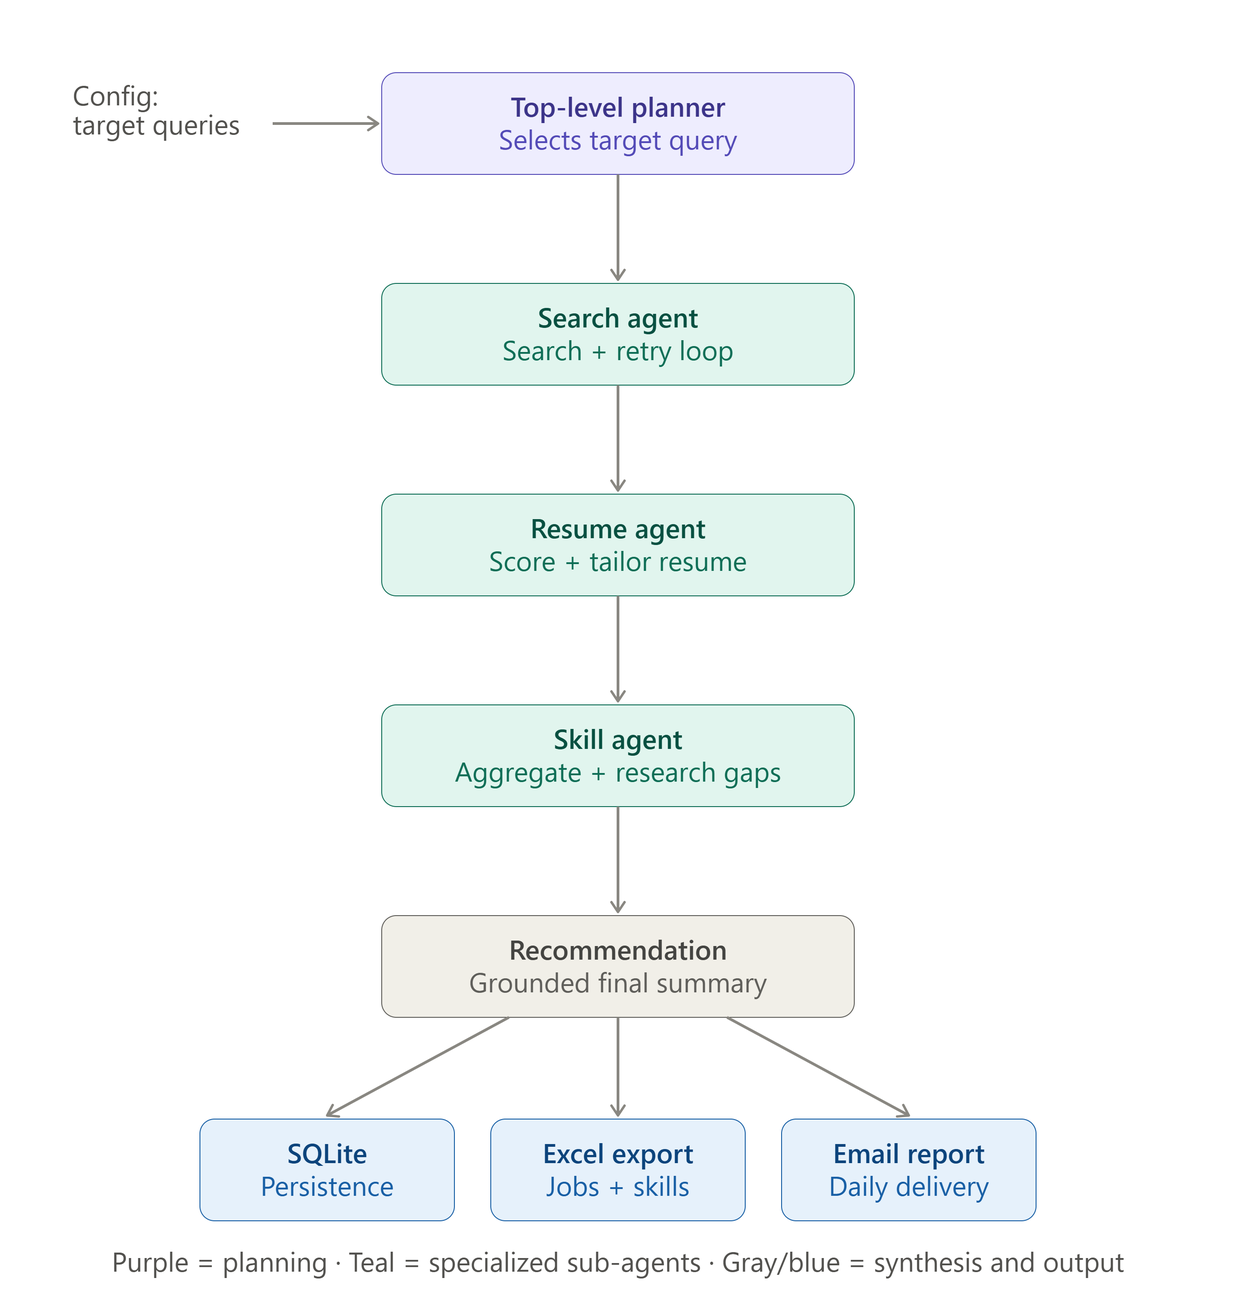
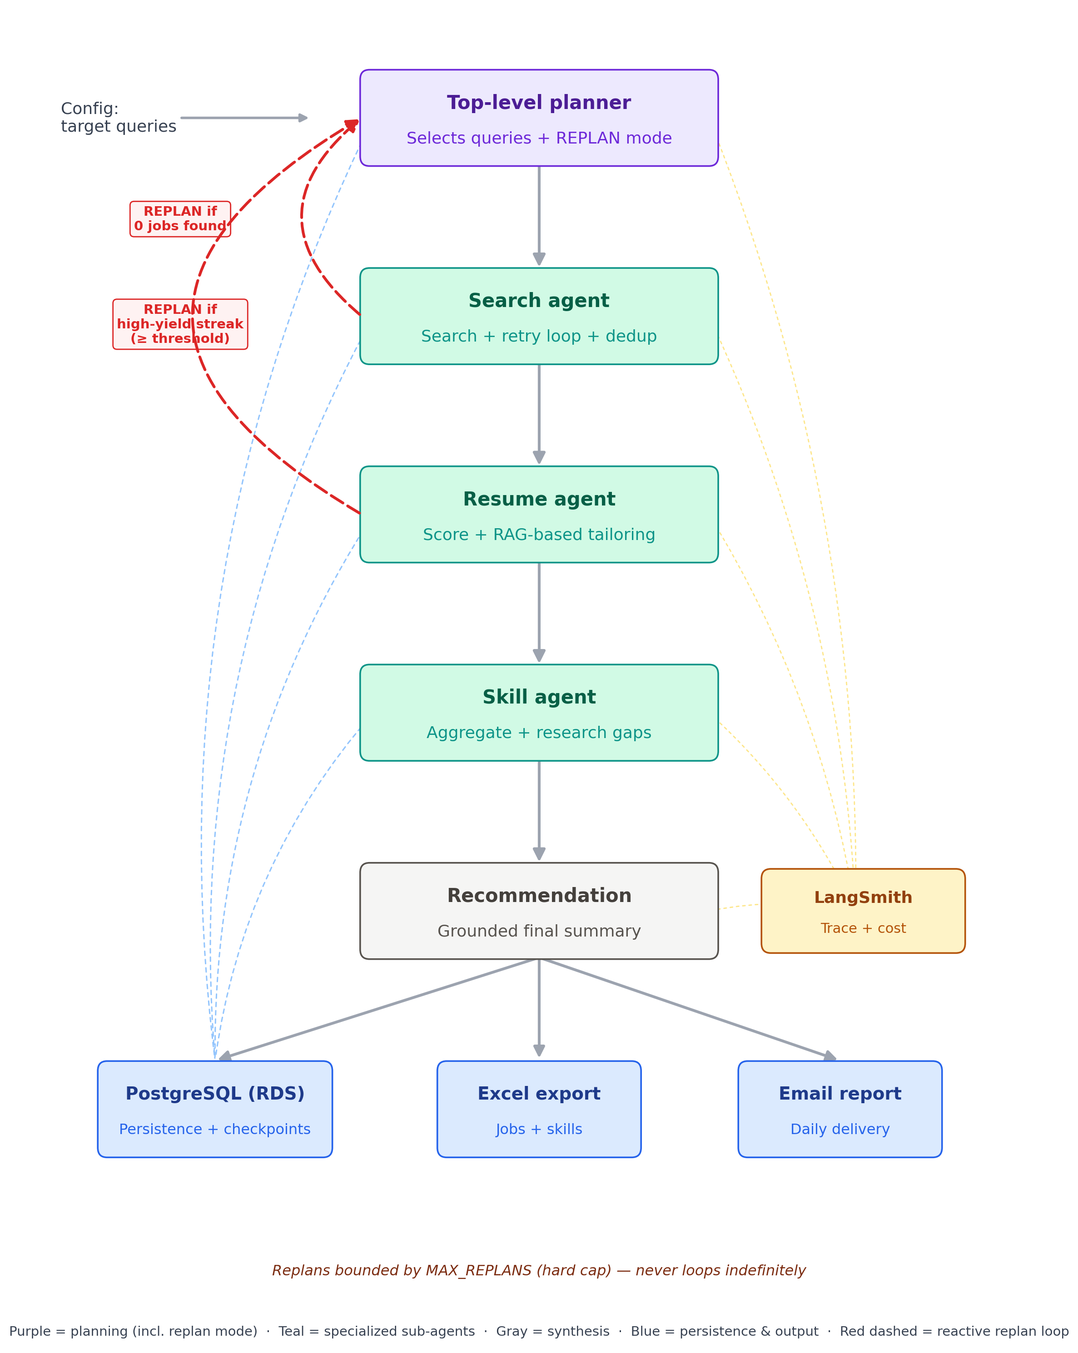
commit

diff --git a/graph/phase3/build.py b/graph/phase3/build.py
@@ -61,10 +61,9 @@ def search_node(state: TopLevelState) -> dict:
             time.sleep(INTER_QUERY_DELAY_SECONDS)
 
     log.info(f"Top-level: Search Agent total across {len(state['queries'])} quer{'y' if len(state['queries'])==1 else 'ies'}: {len(all_raw_jobs)} jobs")
-    delta = {
-        "found_jobs": all_raw_jobs,
-        "searched_queries": list(already_searched) + new_queries,
-    }
+
+    delta = {"found_jobs": all_raw_jobs, "searched_queries": list(already_searched.union(new_queries))}
+
     _checkpoint(state, "search", delta)
     return delta
 

diff --git a/README.md b/README.md
@@ -18,45 +18,71 @@ This project addresses all three with one system: it searches, it judges fit aga
 |---|---|
 | Manually search 5-7 job boards/queries daily | One scheduled run covers multiple sources and target roles |
 | Read full job descriptions to judge fit | LLM-scored match level, matched/missing skills, per job |
-| No memory of what's already been seen or applied to | Persistent, deduplicated history across every run |
+| No memory of what's already been seen or applied to | Persistent, deduplicated history across every run — exact-match AND semantic (embedding-based) |
 | Generic "learn Python" type advice | Skill gaps derived from real, current job postings, with concrete first steps |
 | No visibility into application status | A single tracked, exportable, always-current pipeline |
+| A crash mid-run means starting over from scratch | Checkpointed — resumes from the last completed stage, no wasted API calls |
+| Same query re-run blindly, whether or not it ever worked | Query selection is weighted toward queries with a proven track record of High matches |
+| One plan, run blind to what happens mid-run | Planner re-consults mid-run if a query dead-ends or over-performs, within a bounded cap |
+| Resume matching is a fixed, truncated blob for every job | Retrieval-augmented: only the resume sections relevant to this job are used per prompt |
 
-The system is designed to be genuinely used daily, not a demo — every design decision (persistence, deduplication, crash isolation, cost control) reflects that.
+The system is designed to be genuinely used daily, not a demo — every design decision (persistence, deduplication, crash isolation, cost control, observability, adaptivity) reflects that.
 
 ## 3. Architecture
 
-A top-level planner coordinates three independent, specialized sub-agents. Each sub-agent is a fully self-contained LangGraph graph with its own internal state and reasoning, built and verified in isolation before being wired together.
-
 ![Architecture Diagram](./docs/job_agent_architecture.png)
 
+A top-level planner coordinates three independent, specialized sub-agents. Each sub-agent is a fully self-contained LangGraph graph with its own internal state and reasoning, built and verified in isolation before being wired together.
+
 Design principle throughout: state is explicitly translated at each agent boundary, not shared as one global object. Each agent receives only what it needs and returns only its result — the outer graph has no visibility into how, for example, Search Agent internally decided it had "enough" results.
+
+The top-level graph itself is resumable: after every stage (planner → search → resume → skill → recommend), progress is checkpointed to Postgres. If the process crashes or is killed mid-run, the next invocation picks up at the next incomplete stage instead of re-running everything — including re-spending search API calls and LLM tokens that already succeeded.
+
+**Reactive replanning.** The graph is not a strict straight line — it includes two conditional loop-backs to the planner, bounded by a hard cap (`MAX_REPLANS`, currently 2 total across both triggers) so it can never loop indefinitely:
+
+- **After Search:** if a query returns zero new jobs, the planner is re-invoked to pick one different, untried query from the pool rather than letting the rest of the pipeline run on nothing.
+- **After Resume:** if an unusually high proportion of scored jobs come back as High matches (≥ configurable threshold), the planner is re-invoked to search further in that direction, since the current queries appear to be hitting a strong seam.
+
+Each replan pass adds exactly one new query, excludes anything already tried this run, and accumulates results (jobs, scored jobs) rather than overwriting them — verified via forced-trigger testing to confirm both loop-backs route correctly, respect the replan cap, and never re-select an already-searched query.
 
 ## 4. Tech Stack
 
 | Layer | Technology | Purpose |
 |---|---|---|
-| Orchestration | LangGraph | Multi-agent graph definition, state management, conditional routing |
+| Orchestration | LangGraph | Multi-agent graph definition, state management, conditional routing (including reactive replan loops), checkpointed resumability |
 | LLM tooling | LangChain, langchain-groq | Tool-calling, prompt templating, LLM client abstraction |
 | LLM inference | Groq (Llama 3.3 70B) | Resume-job matching, resume tailoring, skill research, query planning |
-| Job data | JSearch API (RapidAPI), Adzuna API | Two independent job search sources |
-| Persistence | SQLite | Scored jobs, application tracking, API usage history |
+| Embeddings | Gemini Developer API (gemini-embedding-001) | Semantic dedup and resume-chunk retrieval |
+| Job data | JSearch API (RapidAPI), Adzuna API | Two independent job search sources, with monthly-quota tracking against each |
+| Persistence | PostgreSQL (AWS RDS) | Scored jobs, application tracking, API usage history, checkpoints, embeddings, query performance |
+| Observability | LangSmith | Full trace of every graph run — per-node timing, token usage, and cost |
 | Data export | pandas, openpyxl | Excel report generation |
 | Notification | Gmail SMTP | Daily automated report delivery |
 | Language | Python 3.11+ | — |
 
 ## 5. AI Engineering Concepts Applied
 
-- **Multi-agent orchestration** — independent sub-agents with their own state, composed via a top-level graph, not a single monolithic agent
-- **Tool calling / function calling** — `@tool`-decorated functions (`search_jobs`, `search_jobs_adzuna`, `score_job`) invoked by the LLM with self-generated arguments
-- **Agentic loops with guardrails** — Search Agent's internal retry loop is bounded by a hard attempt cap, preventing runaway API usage regardless of LLM judgment
-- **Grounded generation** — the Recommendation step is given real scored data directly in its prompt, structurally preventing hallucination rather than merely instructing the model not to hallucinate
-- **Fabrication guard (LLM output verification)** — every job the LLM attempts to score is checked against a registry of jobs a real search call actually returned; anything else is rejected and logged, never persisted
-- **Prompt engineering** — structured, constrained prompts (explicit JSON schema requests, "reply ONLY with..." patterns) isolated into a dedicated prompts module
-- **Caching for cost control** — previously-scored jobs are never re-sent to the LLM
-- **Cost-bounded expensive operations** — resume tailoring and skill research are deliberately restricted to only the highest-value cases (High matches, top-N gaps), not applied indiscriminately
-- **Rate-limit-aware resilience** — exponential backoff with a distinction between recoverable (per-minute) and unrecoverable (daily) limits, failing fast on the latter instead of wasting retries
-- **Proactive budget guarding** — real per-call token usage is recorded and checked against published rate limits before the next call fires, rather than only reacting to failures after the fact
+Each capability below exists because of a specific problem a naive single-agent implementation would have had.
+
+| Problem | Why a naive approach fails | Solution applied |
+|---|---|---|
+| One agent trying to search, score, and research skills at once becomes an unmanageable god-object as complexity grows | A single monolithic prompt/loop has no clean boundaries — debugging or improving one capability risks breaking the others | **Multi-agent orchestration** — independent sub-agents (Search, Resume, Skill) with their own state, composed via a top-level graph |
+| The LLM needs to search job boards and score listings, not just talk about them | A chat-only LLM can describe what it would search for, but can't actually execute a real API call | **Tool calling** — `@tool`-decorated functions (`search_jobs`, `search_jobs_adzuna`, `score_job`) the LLM invokes with self-generated arguments |
+| An agent deciding for itself "keep searching until satisfied" can loop indefinitely or burn unbounded API calls | LLM judgment about "enough results" isn't a reliable stopping condition on its own | **Agentic loop with a hard guardrail** — Search Agent's retry loop is capped at a fixed attempt limit regardless of what the LLM thinks |
+| Planning happens once, upfront — the pipeline runs blind afterward even if a query dead-ends or over-performs | A single static plan can't react to what actually happens mid-run, wasting the rest of the run on a bad early decision | **Reactive replanning with bounded loop-backs** — the graph conditionally routes back to the planner after Search (on zero results) or after Resume (on a high-yield streak), capped by a hard replan counter to prevent runaway loops |
+| Given no real results, an LLM asked to "summarize the best matches" will confidently invent plausible-sounding fake job listings | LLMs pattern-match to "what a good summary looks like," with or without real grounding data | **Grounded generation** — the Recommendation step is fed real scored data directly in its prompt, structurally preventing fabrication rather than just instructing the model not to |
+| Nothing stops the LLM from scoring or emailing a job that was never actually returned by a real search | Tool-calling LLMs can reference plausible-looking arguments that don't correspond to anything real | **Fabrication guard** — every job the LLM attempts to score is checked against a registry of jobs a real search call actually returned this session; anything else is rejected and logged |
+| The same fixed, truncated resume excerpt was used for every job — an AI-engineering role and a Salesforce-admin role got identical resume context, and anything past the first ~2000 characters was invisible to every score, forever | A single hardcoded truncation can't be relevant to every job at once, and silently drops real information | **Resume-chunk RAG** — the resume is split into chunks, embedded, and only the top-k chunks most relevant to that specific job's description are retrieved per prompt |
+| The same job reposted with a slightly reworded title (a staffing agency repost, a "Sr." vs "Senior" variant) was treated as a brand-new listing and rescored from scratch | Exact string-key matching only catches identical titles, not paraphrases | **Semantic deduplication** — job listings are deduplicated on embedding similarity, catching reworded near-duplicates a naive key comparison misses |
+| The planner picked search queries in pure round-robin order, with zero memory of which queries actually produced good matches versus wasted API calls | A fixed rotation treats a query that's found 5 High matches identically to one that's found none | **Adaptive, outcome-aware query selection** — each query's historical High-match rate is tracked and weighted into future selection, with a floor so every query still gets occasional exploration |
+| A crash partway through a run (API failure, network drop) meant re-running the entire pipeline from scratch the next time — re-spending search calls and LLM tokens that had already succeeded | No persisted progress between pipeline stages | **Checkpointed resumability** — full pipeline state is saved to Postgres after every stage; a crash resumes at the next incomplete stage instead of starting over |
+| Free-tier LLM usage (30 RPM / 1K RPD / 12K TPM / 100K TPD on Groq) is easy to blow through with unthrottled testing, and a 429 error only tells you after it's already failed | Reactive error-handling alone means discovering the problem only once it's already occurred | **Proactive budget guarding** — real per-call token usage is recorded and checked against all four limits with a safety margin before the next call fires |
+| Search-API quotas (JSearch, Adzuna) were being consumed with zero visibility into how close to the monthly cap the account actually was | Silent consumption means a sudden failure is the first sign of a problem | **Search-API usage tracking** — every real network call is counted and surfaced against its monthly limit in every run's summary |
+| With no view into what a multi-agent run was actually doing, debugging or explaining the system's behavior meant re-reading logs line by line | Plain logging shows that something happened, not the full nested structure of why, with timing and cost attached | **Observability (LangSmith)** — every graph run and underlying LLM call is traced end-to-end: per-node timing, token usage, and real dollar cost, with no code changes beyond configuration |
+| A prompt engineered once and left as an inline string scattered through the codebase is hard to test, version, or reuse consistently | Freeform prompt strings buried in logic make prompts hard to audit or improve independently of the code around them | **Prompt engineering** — structured, constrained prompts (explicit JSON schema requests, "reply ONLY with..." patterns) isolated into a dedicated prompts module |
+| Re-scoring a job already scored in a previous run wastes both LLM tokens and money for a result that won't change | Nothing about a job's fit changes between runs unless the resume itself changes | **Caching for cost control** — previously-scored jobs are never re-sent to the LLM; resume-chunk embeddings are only recomputed when the resume file's content actually changes |
+| Applying expensive operations (resume tailoring, skill research) to every single result scales cost with result volume, not with actual value | Not every scored job is worth the extra LLM spend | **Cost-bounded expensive operations** — tailoring and research are restricted to only the highest-value subset (High matches, top-N gaps) |
+| A single Groq rate-limit response doesn't tell you whether retrying will help or is guaranteed to fail again | Treating all rate-limit errors the same wastes time retrying an unrecoverable daily cap | **Rate-limit-aware resilience** — retry logic distinguishes recoverable (short, per-minute) delays from unrecoverable (long, daily-cap) ones and fails fast on the latter |
 
 ## 6. Problems Encountered During Development (and Resolutions)
 
@@ -70,6 +96,12 @@ Design principle throughout: state is explicitly translated at each agent bounda
 | Frequent 429 rate-limit errors under heavy same-day testing | Free-tier Groq limits (30 RPM / 1K RPD / 12K TPM / 100K TPD for Llama 3.3 70B) are easily exhausted with unthrottled, repeated testing | Built a proactive usage tracker with a pre-call budget guard, using a 90% safety margin against all four limit types |
 | A single job's scoring failure or a single query's total failure could abort an entire run | No isolation between units of work | Per-job and per-query try/except boundaries; a failure is logged and the run continues |
 | Excel export silently showed empty apply links | `apply_link` was an optional tool parameter the LLM sometimes omitted | Made `apply_link` a required parameter, removing the LLM's ability to skip it |
+| Embedding calls failed with a Vertex AI billing error (`BILLING_DISABLED`) despite intending to use a free-tier API key | The embedding implementation used the `vertexai` SDK with service-account credentials — a genuinely different product (Vertex AI, GCP-billed, no free tier) from the Gemini Developer API (AI Studio, API-key auth, real free tier) that was actually intended | Rewrote the embedding call as a plain authenticated REST request to `generativelanguage.googleapis.com` (AI Studio), removing all Vertex/service-account code entirely |
+| Duplicate `@tool` decorator and duplicate `save_score(...)` call caused a `ValueError` at import time | A pasted code edit landed above the existing line instead of replacing it | Removed the duplicated lines; adopted a stricter search-and-replace habit for subsequent edits |
+| No way to tell, from the log alone, whether a skipped job was an exact repeat or a genuine fuzzy-title catch | Both cases returned `True` from the same function, but only one branch logged anything | Added a log line to the silent (exact-key) branch so both outcomes are distinguishable in the log |
+| A crash partway through a run wasted every search/LLM call made before the crash | No persisted progress between pipeline stages | Postgres-backed checkpointing after each stage; the graph's entry point is conditionally routed to resume at the correct stage |
+| Search Agent's `found_jobs` state was silently overwritten rather than merged when the graph looped back through search a second time | LangGraph doesn't auto-merge dict/list state values across repeated node execution unless the node explicitly merges them | `search_node` now tracks already-searched queries separately and appends only newly found, deduplicated jobs to the accumulated list on every pass, including replanned ones |
+| A `.env` file containing real credentials was committed to git history | Missing from `.gitignore` from the start | Untracked with `git rm --cached`, added to `.gitignore`, verified removal from history, rotated all exposed credentials |
 
 ## 7. Rate Limit & Token Management
 
@@ -82,12 +114,16 @@ Groq's free-tier limits for the model in use (Llama 3.3 70B Versatile):
 | Tokens per minute (TPM) | 12,000 |
 | Tokens per day (TPD) | 100,000 |
 
+External job-data APIs are also tracked against their own free-tier quotas (JSearch/RapidAPI, Adzuna), with real call counts recorded on every network request and surfaced in each run's summary email — not just Groq.
+
 Measures taken:
 
-- Every LLM response's real token usage (`response_metadata['token_usage']`) is recorded to a local table immediately after each call — actual usage, not estimates.
-- Before every LLM call, a guard checks the last-60-seconds and today's totals against all four limits with a 90% safety margin, and refuses the call proactively if it would breach that margin — this catches problems before an API rejection, not just after.
+- Every LLM response's real token usage (`response_metadata['token_usage']`) is recorded immediately after each call — actual usage, not estimates.
+- Before every LLM call, a guard checks the last-60-seconds and today's totals against all four Groq limits with a 90% safety margin, and refuses the call proactively if it would breach that margin.
 - Retry logic distinguishes recoverable delays (Groq reports a short wait, e.g. seconds) from unrecoverable ones (a long suggested wait indicates a daily cap, which retrying cannot fix) and fails fast in the latter case rather than burning time on retries that cannot succeed.
 - Expensive operations (resume tailoring, skill research) are deliberately scoped to only the highest-value subset of results, not applied to every item, keeping per-run token cost proportional to output value.
+- Every search-API call (JSearch, Adzuna) is counted against its own monthly free-tier limit, so quota exhaustion is visible ahead of time rather than discovered as a sudden failure.
+- Reactive replanning is capped (`MAX_REPLANS`, currently 2) specifically to bound the additional API/LLM spend that mid-run looping could otherwise introduce.
 
 ## 8. Setup
 
@@ -100,11 +136,22 @@ Create `.env`:
 ```
 RAPIDAPI_KEY=...
 GROQ_API_KEY=...
+GEMINI_API_KEY=...
 GMAIL_FROM=...
 GMAIL_APP_PASSWORD=...
 ADZUNA_APP_ID=...
 ADZUNA_APP_KEY=...
+PGHOST=...
+PGPORT=5432
+PGDATABASE=...
+PGUSER=...
+PGPASSWORD=...
+LANGCHAIN_TRACING_V2=true
+LANGCHAIN_API_KEY=...
+LANGCHAIN_PROJECT=job-ai-agent
 ```
+
+`GEMINI_API_KEY` comes from Google AI Studio (aistudio.google.com), not the GCP/Cloud Console — this is the Gemini Developer API, which has a genuine free tier, as distinct from Vertex AI (GCP-billed, no free tier).
 
 Add resume text to `my_resume.txt`, set target roles in `config/settings.py` (`SEARCH_QUERIES`), then:
 
@@ -122,30 +169,31 @@ python mark_applied.py "Employer Name" "Job Title" [apply_link]
 
 ```
 job-ai-agent/
-├── main.py                 # Entry point — orchestration only
-├── mark_applied.py         # CLI utility
-├── config/                 # Settings, prompts, target queries
-├── db/                     # Persistence: scored jobs, applications, API usage
-├── tools/                  # Search (JSearch, Adzuna) and scoring tools
-├── graph/phase3/           # Multi-agent graph: planner + 3 sub-agents
-├── utils/                  # Retry logic, logging
-├── reports/                # Excel and summary generation
-├── notifications/          # Email delivery
-└── tests/                  # Module-level smoke tests
+├── main.py                   # Entry point — orchestration, checkpoint resume logic
+├── mark_applied.py           # CLI utility
+├── config/                   # Settings, prompts, target queries
+├── db/                       # Persistence: scored jobs, applications, API usage,
+│                              # checkpoints, embeddings, query performance, resume chunks
+├── tools/                    # Search (JSearch, Adzuna) and scoring tools
+├── graph/phase3/             # Multi-agent graph: planner + 3 sub-agents + replan routing
+├── utils/                    # Retry logic, logging
+├── reports/                  # Excel and summary generation
+├── notifications/            # Email delivery
+└── tests/                    # Module-level smoke tests
 ```
 
 ## 10. Current Limitations & Roadmap
 
-**Known limitation:** the top-level planner makes one decision (which query to run) at the start of a run; execution afterward is deterministic regardless of intermediate results. A more adaptive design would consult the planner between agents — reacting to a Search Agent finding nothing, or a Resume Agent finding an unusually high yield of strong matches — rather than planning once, upfront.
+Known limitation: the checkpoint-resume logic resumes a crashed run at a fixed next stage based on the last completed stage name — it doesn't know it was mid-replan-loop when it crashed. In practice this is still safe (all accumulated state — `found_jobs`, `searched_queries`, `replan_count` — is preserved correctly in the checkpoint), but a resumed run won't re-evaluate "should I have replanned here" the way a live run would. Minor edge case, not a correctness bug.
 
-**Near-term:**
+Near-term:
 
-- Scheduled, unattended execution (Windows Task Scheduler)
-- Adaptive, outcome-aware planning between agents
-- Query-history awareness to avoid re-selecting recently-exhausted queries
+- Human-in-the-loop approval step before emailing High matches (currently fully automated)
+- Scoping semantic dedup comparisons to same-employer only, to reduce any risk of cross-employer false positives
+- Query-history awareness across days to avoid re-selecting recently-exhausted queries, beyond the current within-run exclusion
 
-**Explicitly deferred:** observability/tracing (LangSmith), retrieval-augmented generation, cloud deployment — each treated as a distinct, deliberate learning effort rather than folded into this build.
+**Done since the last version of this document:** cloud deployment (AWS RDS Postgres), observability/tracing (LangSmith), retrieval-augmented generation (resume-chunk RAG), semantic deduplication, adaptive query selection, checkpointed resumability, and **reactive mid-run replanning** — the planner now re-engages after Search (on zero results) or after Resume (on a high-yield streak), bounded by a hard replan cap, closing the "plan once, execute blind" gap noted in earlier versions of this document.
 
 ---
 
-Built as a hands-on demonstration of applied agentic AI engineering: orchestration, tool use, cost-aware LLM operation, and — deliberately — active, tested defenses against an LLM's own unreliability, not only its capability.
+Built as a hands-on demonstration of applied agentic AI engineering: orchestration, tool use, cost-aware LLM operation, retrieval-augmented generation, observability, adaptive and reactive planning, and — deliberately — active, tested defenses against an LLM's own unreliability, not only its capability.
